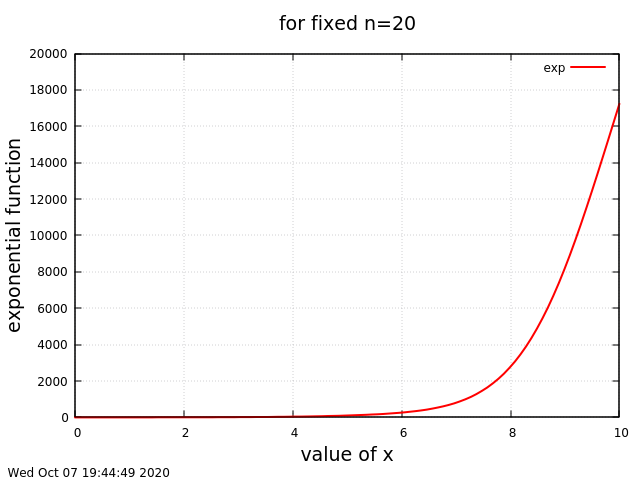
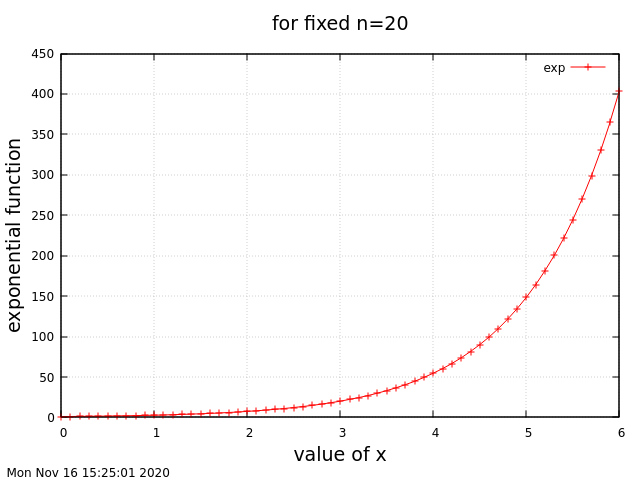
fix mistakes

diff --git a/Programs/CH03/problem_1/nfixed.c b/Programs/CH03/problem_1/nfixed.c
@@ -6,13 +6,13 @@ int main()
 {
     FILE*fp=NULL;
     fp=fopen("nfixed.txt","w");
-    int i,n,t0;
-    double x,t1,R,sum;
+    int i,n;
+    double x,t0,t1,R,sum;
 
     printf("Enter the number of terms: ");
     scanf("%d",&n);
     // loop for summing terms using ratio
-    for(x=0;x<=10;x=x+0.1)
+    for(x=0.0;x<=6.0;x=x+0.1)
     {
         i=1;
         t0=1;    //defining first term of series
@@ -25,6 +25,5 @@ int main()
             i++;
         } while(i<=n);
         fprintf(fp,"%lf\t%lf\n",x,sum);
-        //printf("%lf\t%lf\n",x,sum);
     }
 }

diff --git a/README.md b/README.md
@@ -2,9 +2,11 @@
 
 ## Semester: III Course Code: PH-CL502
 
+### Manual by : Professor Shobhit Mahajan [>Profile<](http://people.du.ac.in/~sm/)
+### Course Instructor : Professor Jyoti Rajput [>Profile<](http://du.ac.in/du/uploads/Faculty%20Profiles/Physics/Physics_Jyoti_Rajput.pdf)
 As per our university syllabus, "This course is intended to be an Introduction to a **Programming Language C** as well as application for Numerical Analysis. The course would impart training in the structure of the programming language as well as train the students in using programs to numerically solve problems in various areas. In addition, it will also familiarize the students to the Unix environment."
 
-We have been given a manual to practice the problems and here I'll commit the programs as I successfully compile and get the desired output.<br>
+We have been given a **[MANUAL](https://drive.google.com/file/d/10ZzmHsvMVDVspZUY6VBRm5HezVoqkNAQ/view?usp=sharing)** to practice the problems and here I'll commit the programs as I successfully compile and get the desired output.<br>
 ***This repository is under progress.***
 ## Table of Contents
 ### Programs
@@ -180,6 +182,11 @@ All the linux distributers have git installed in their system so they simply pas
 `git clone https://github.com/singhnir/DU-MSc-Lab-C-Prog.git`
 ### For Windows user:
 Normally no windows has git preinstalled so previous command doesn't work on it but again you can download a zip copy of the codes clicking [**here**](https://github.com/singhnir/DU-MSc-Lab-C-Prog/archive/master.zip).
+
+## Requirements
+* Text Editor (Atom/Sublime...)
+* GCC Compiler
+* Gnuplot
 
 ## Contact
 If you've any doubt or suggestions regarding the project, please feel free to reach out by filing an issue here on github or you can simply email me at [nirsingh124@gmail.com](mailto:nirsingh124@gmail.com). You can also drop a message to my [Telegram](https://t.me/singhnirmal) account.
